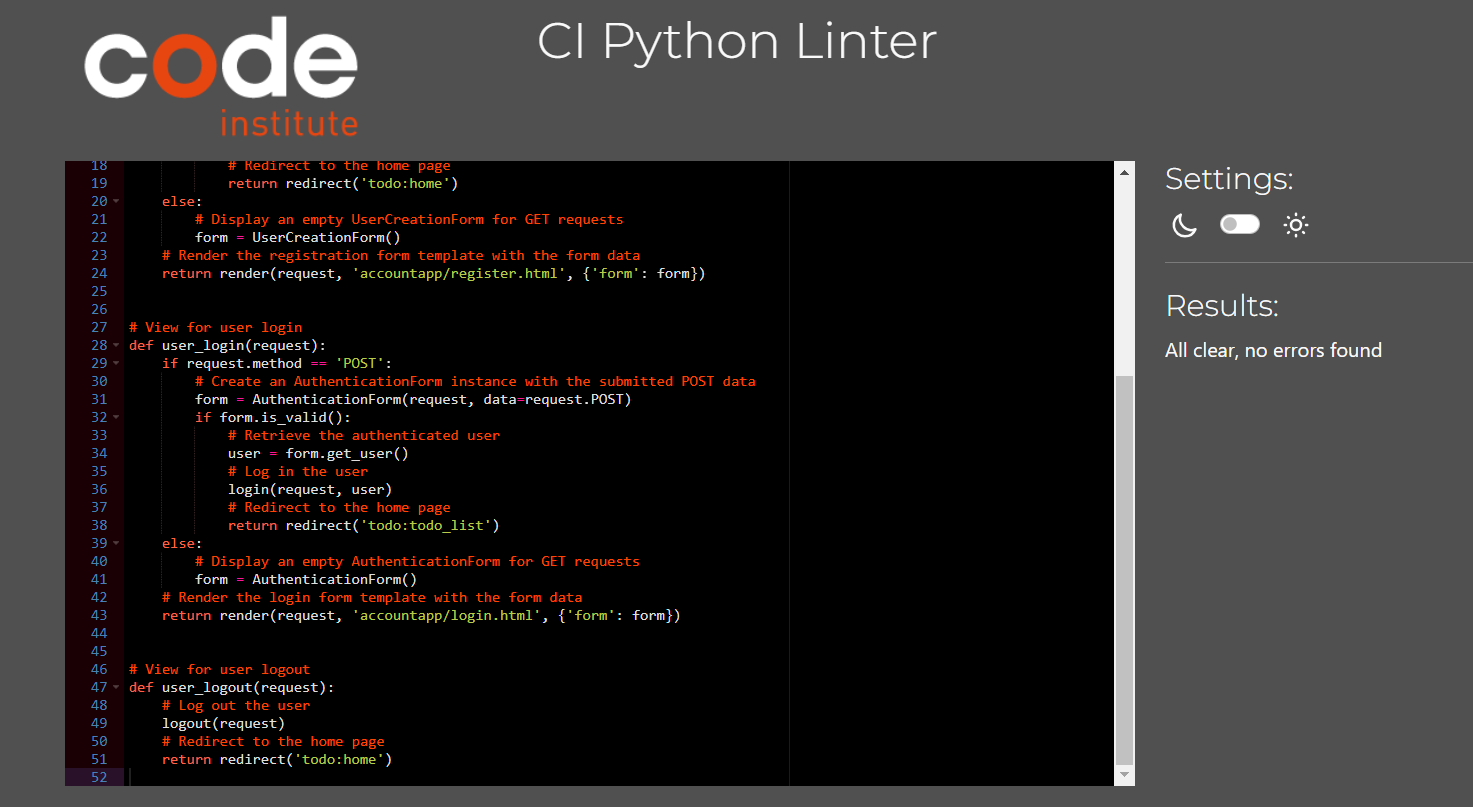
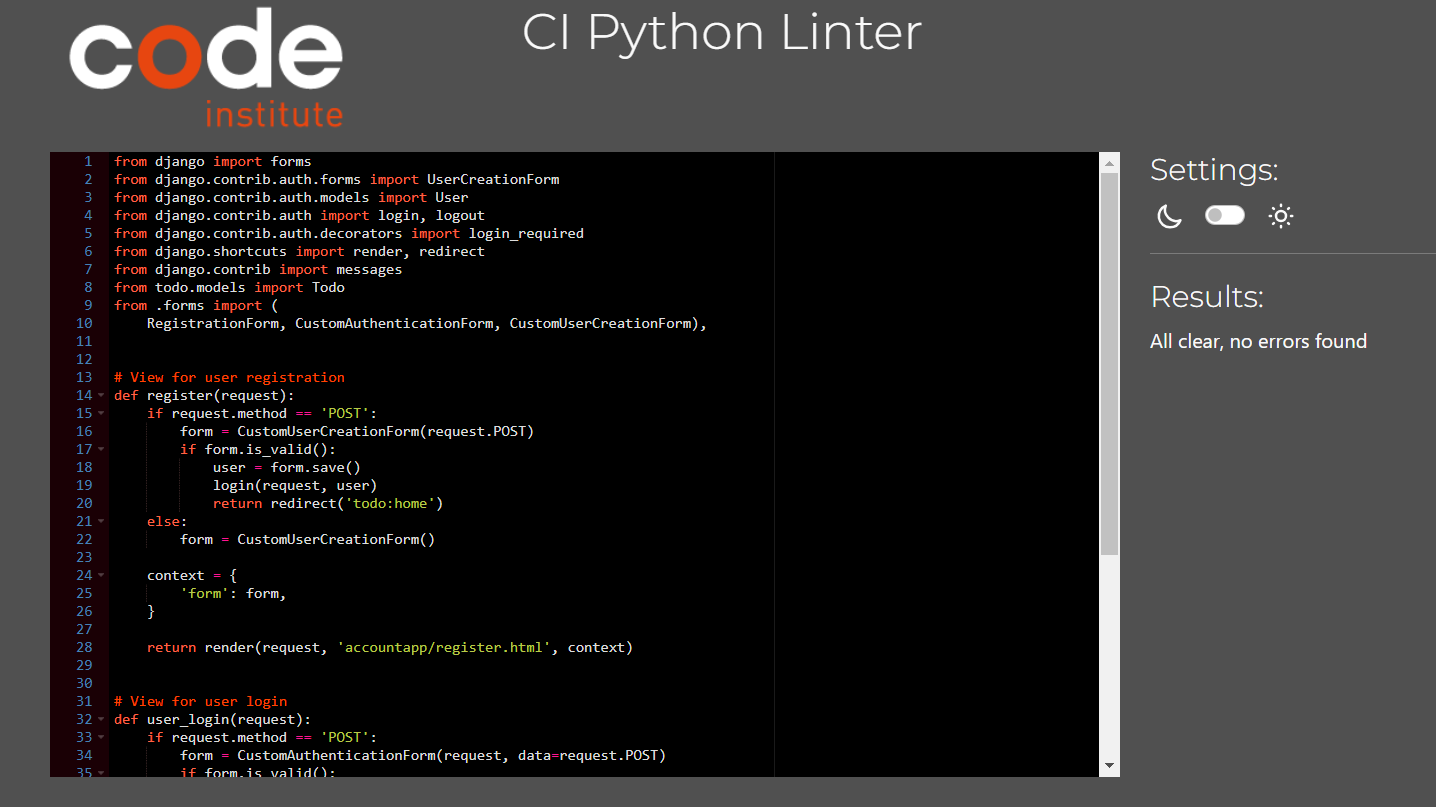
Created new forms for validations and messages to the login, register and logout features. And changed all the files needed for it to work. And changed images in the TESTING.md.

Changed region(s): [[0.0306, 0.0, 0.9499, 0.9913], [0.3677, 0.0, 0.6435, 0.0929], [0.3677, 0.3717, 0.4903, 0.4027]]

diff --git a/accountapp/templates/accountapp/register.html b/accountapp/templates/accountapp/register.html
@@ -1,7 +1,6 @@
-{% extends 'base.html' %} <!-- Extend the 'base.html' template -->
+{% extends 'base.html' %}
 
-{% block content %} <!-- Start the content section fore the register page -->
-
+{% block content %}
 <div class="container bg-dark text-light py-4">
   <div class="container">
     <div class="row justify-content-center">
@@ -13,11 +12,31 @@
           <div class="form-group">
             <label for="id_username">Username:</label>
             {{ form.username }}
+            <small class="form-text text-muted">
+              {{ form.username.help_text }}
+            </small>
+            {% if form.username.errors %}
+              <ul class="errorlist">
+                {% for error in form.username.errors %}
+                  <li>{{ error }}</li>
+                {% endfor %}
+              </ul>
+            {% endif %}
           </div>
           <!-- Render the password field -->
           <div class="form-group">
             <label for="id_password1">Password:</label>
             {{ form.password1 }}
+            <small class="form-text text-muted">
+              {{ form.password1.help_text }}
+            </small>
+            {% if form.password1.errors %}
+              <ul class="errorlist">
+                {% for error in form.password1.errors %}
+                  <li>{{ error }}</li>
+                {% endfor %}
+              </ul>
+            {% endif %}
           </div>
           <!-- Render the password confirmation field -->
           <div class="form-group">
@@ -33,5 +52,4 @@
     </div>
   </div>
 </div>
-
-{% endblock %} <!-- End of the content section -->
+{% endblock %}

diff --git a/accountapp/templates/accountapp/login.html b/accountapp/templates/accountapp/login.html
@@ -1,7 +1,6 @@
-{% extends 'base.html' %} <!-- Extend the 'base.html' template -->
+{% extends 'base.html' %}
 
-{% block content %} <!-- Start the content section fore the login page -->
-
+{% block content %}
 <div class="container bg-dark text-light py-4">
   <div class="container">
     <div class="row justify-content-center">
@@ -19,6 +18,15 @@
             <label for="id_password">Password:</label>
             {{ form.password }}
           </div>
+          <!-- Display error messages -->
+          {% if messages %}
+            <div class="errorlist">
+              {% for message in messages %}
+                {{ message }}
+              {% endfor %}
+            </div>
+          {% endif %}
+          <br>
           <!-- Submit button -->
           <button type="submit" class="btn btn-primary">Login</button>
         </form>
@@ -28,6 +36,4 @@
     </div>
   </div>
 </div>
-{% endblock %} <!-- End of the content section -->
-
-
+{% endblock %}

diff --git a/static/css/style.css b/static/css/style.css
@@ -1,4 +1,11 @@
-/* Set the background image and properties */
+/* Sets styles for all elements */
+* {
+    margin: 0;
+    padding: 0;
+    border: 0;
+}
+
+/* Set the background image and properties for the body */
 body {
     background-image: linear-gradient(to bottom, #5aa29a, #40b997, #47cd82, #70de5d, #a8eb12);
     background-size: cover;
@@ -9,7 +16,7 @@ body {
     min-height: 100vh;
 }
 
-/* Styling for the navbar brand */
+/* Styling for the navbar brand link */
 a.navbar-brand {
     font-family: 'Kristi', cursive;
     font-size: 160%;
@@ -33,6 +40,13 @@ a.navbar-brand {
     overflow: hidden;
     padding-bottom: 100px;
     margin-bottom: 35px;
+}
+
+/* Styling for success messages */
+.message.success {
+    background-color: #fff;
+    display: flex;
+    justify-content: center;
 }
 
 /* Styling for heading elements */
@@ -79,4 +93,3 @@ button {
     text-decoration: none;
     margin-right: 10px;
 }
-

diff --git a/todo/templates/base.html b/todo/templates/base.html
@@ -1,4 +1,4 @@
-{% load static %}  <!-- Load the static template tag to use static files -->
+{% load static %} <!-- Load the static template tag to use static files -->
 
 <!DOCTYPE html>
 <html lang="en">
@@ -76,6 +76,16 @@
       </div>
     </div>
   </nav>
+
+  {% if messages %}
+    <div class="container mt-4">
+      <div class="messages container bg-dark text-light py-4">
+        {% for message in messages %}
+          {% if message.tags %} {{ message.tags }}{% endif %} {{ message }}
+        {% endfor %}
+      </div>
+    </div>
+  {% endif %}
 
   <div class="wrapper">
     <div class="container mt-4">

diff --git a/accountapp/forms.py b/accountapp/forms.py
@@ -1,11 +1,78 @@
 from django import forms
-from django.contrib.auth.forms import UserCreationForm
+from django.contrib.auth.forms import UserCreationForm, AuthenticationForm
 from django.contrib.auth.models import User
+from django.core.exceptions import ValidationError
+from django.contrib.auth.password_validation import validate_password
+
+
+class CustomUserCreationForm(UserCreationForm):
+    # Define custom error messages
+    error_messages = {
+        'password_mismatch': "The two password fields didn't match.",
+        'password_length': "Password must be at least 8 characters long.",
+        'username_invalid': (
+            "Invalid username. Only letters, digits,"
+            " and underscores are allowed."
+        ),
+    }
+
+    def __init__(self, *args, **kwargs):
+        super().__init__(*args, **kwargs)
+
+        # Customize the username field
+        self.fields['username'].required = True
+        self.fields['username'].widget.attrs['maxlength'] = 30
+        self.fields['username'].widget.attrs['pattern'] = r'^[a-zA-Z0-9_]+$'
+        self.fields['username'].help_text = (
+            "Required. 30 characters or fewer."
+            "Letters, digits, and underscores only."
+            ),
+
+        # Customize the password fields
+        self.fields['password1'].required = True
+        self.fields['password1'].widget.attrs['minlength'] = 8
+        self.fields['password1'].help_text = (
+            "Required. At least 8 characters."
+            "Letters, digits, and symbols allowed."
+            ),
+
+        self.fields['password2'].required = True
+
+    def clean_password1(self):
+        # Validate password length
+        password1 = self.cleaned_data.get("password1")
+        if len(password1) < 8:
+            raise ValidationError(self.error_messages['password_length'])
+        validate_password(password1, self.instance)
+        return password1
+
+    def clean(self):
+        cleaned_data = super().clean()
+        password1 = cleaned_data.get("password1")
+        password2 = cleaned_data.get("password2")
+
+        if password1 and password2 and password1 != password2:
+            # Raise validation error if passwords don't match
+            self.add_error(
+                'password2', self.error_messages['password_mismatch']
+                ),
+
+    def clean_username(self):
+        username = self.cleaned_data.get("username")
+        if not username.isalnum():
+            # Raise validation error if username contains invalid characters
+            raise ValidationError(self.error_messages['username_invalid'])
+        return username
+
+
+class CustomAuthenticationForm(AuthenticationForm):
+    def __init__(self, *args, **kwargs):
+        super().__init__(*args, **kwargs)
+        self.fields['username'].required = True
+        self.fields['password'].required = True
 
 
 class RegistrationForm(UserCreationForm):
     class Meta:
-        # Specifies the model to be used for the form
         model = User
-        # Specifies the fields to be included in the form
         fields = ['username', 'password1', 'password2']

diff --git a/accountapp/views.py b/accountapp/views.py
@@ -1,51 +1,49 @@
+from django import forms
+from django.contrib.auth.forms import UserCreationForm
+from django.contrib.auth.models import User
 from django.contrib.auth import login, logout
-from django.contrib.auth.forms import AuthenticationForm, UserCreationForm
-from django.shortcuts import render, redirect
 from django.contrib.auth.decorators import login_required
+from django.shortcuts import render, redirect
+from .forms import RegistrationForm, CustomAuthenticationForm, CustomUserCreationForm
+from django.contrib import messages
 from todo.models import Todo
 
 
 # View for user registration
 def register(request):
     if request.method == 'POST':
-        # Create a UserCreationForm instance with the submitted POST data
-        form = UserCreationForm(request.POST)
+        form = CustomUserCreationForm(request.POST)
         if form.is_valid():
-            # Save the form data to create a new user
             user = form.save()
-            # Log in the user
             login(request, user)
-            # Redirect to the home page
             return redirect('todo:home')
     else:
-        # Display an empty UserCreationForm for GET requests
-        form = UserCreationForm()
-    # Render the registration form template with the form data
-    return render(request, 'accountapp/register.html', {'form': form})
+        form = CustomUserCreationForm()
+
+    context = {
+        'form': form,
+    }
+
+    return render(request, 'accountapp/register.html', context)
 
 
 # View for user login
 def user_login(request):
     if request.method == 'POST':
-        # Create an AuthenticationForm instance with the submitted POST data
-        form = AuthenticationForm(request, data=request.POST)
+        form = CustomAuthenticationForm(request, data=request.POST)
         if form.is_valid():
-            # Retrieve the authenticated user
             user = form.get_user()
-            # Log in the user
             login(request, user)
-            # Redirect to the home page
             return redirect('todo:todo_list')
+        else:
+            messages.error(request, 'Invalid username or password. Please try again.')  # Add error message
     else:
-        # Display an empty AuthenticationForm for GET requests
-        form = AuthenticationForm()
-    # Render the login form template with the form data
+        form = CustomAuthenticationForm()
+    
     return render(request, 'accountapp/login.html', {'form': form})
 
 
-# View for user logout
 def user_logout(request):
-    # Log out the user
     logout(request)
-    # Redirect to the home page
+    messages.success(request, "You have been logged out successfully.")
     return redirect('todo:home')

diff --git a/TheKingOfChores/settings.py b/TheKingOfChores/settings.py
@@ -16,6 +16,7 @@ import dj_database_url
 if os.path.isfile('env.py'):
     import env
 
+
 # Build paths inside the project like this: BASE_DIR / 'subdir'.
 BASE_DIR = Path(__file__).resolve().parent.parent
 TEMPLATES_DIR = os.path.join(BASE_DIR, 'templates')
@@ -33,8 +34,10 @@ SECRET_KEY = os.environ.get('SECRET_KEY')
 # SECURITY WARNING: don't run with debug turned on in production!
 DEBUG = False
 
+
 ALLOWED_HOSTS = [
     'the-king-of-chores.herokuapp.com',
+    '8000-assofiejako-thekingofch-gc72b8eqawa.ws-eu101.gitpod.io',
     '8000-assofiejako-thekingofch-gc72b8eqawa.ws-eu99.gitpod.io',
     '8000-assofiejako-thekingofch-gc72b8eqawa.ws-eu100.gitpod.io',
     'localhost',
@@ -58,6 +61,7 @@ INSTALLED_APPS = [
     'accountapp',
     'todo',
 ]
+
 
 MIDDLEWARE = [
     'django.middleware.security.SecurityMiddleware',
@@ -122,6 +126,17 @@ AUTH_PASSWORD_VALIDATORS = [
                  'NumericPasswordValidator'),
     },
 ]
+
+
+AUTHENTICATION_BACKENDS = [
+    'django.contrib.auth.backends.ModelBackend',
+]
+
+
+SITE_ID = 1
+
+LOGIN_REDIRECT_URL = 'todo:home'
+LOGOUT_REDIRECT_URL = 'todo:home'
 
 
 # Internationalization
